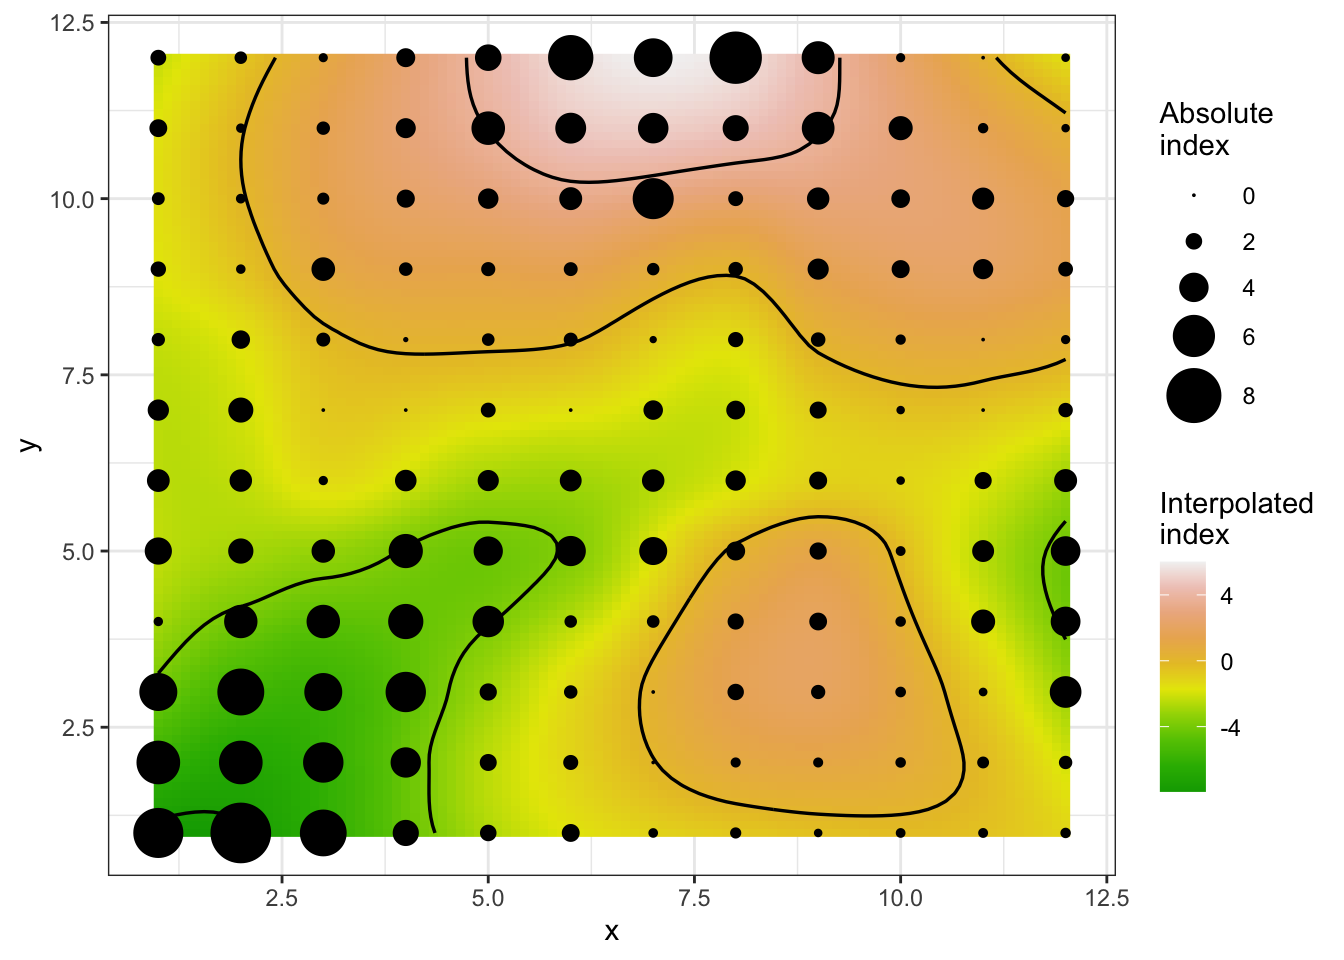
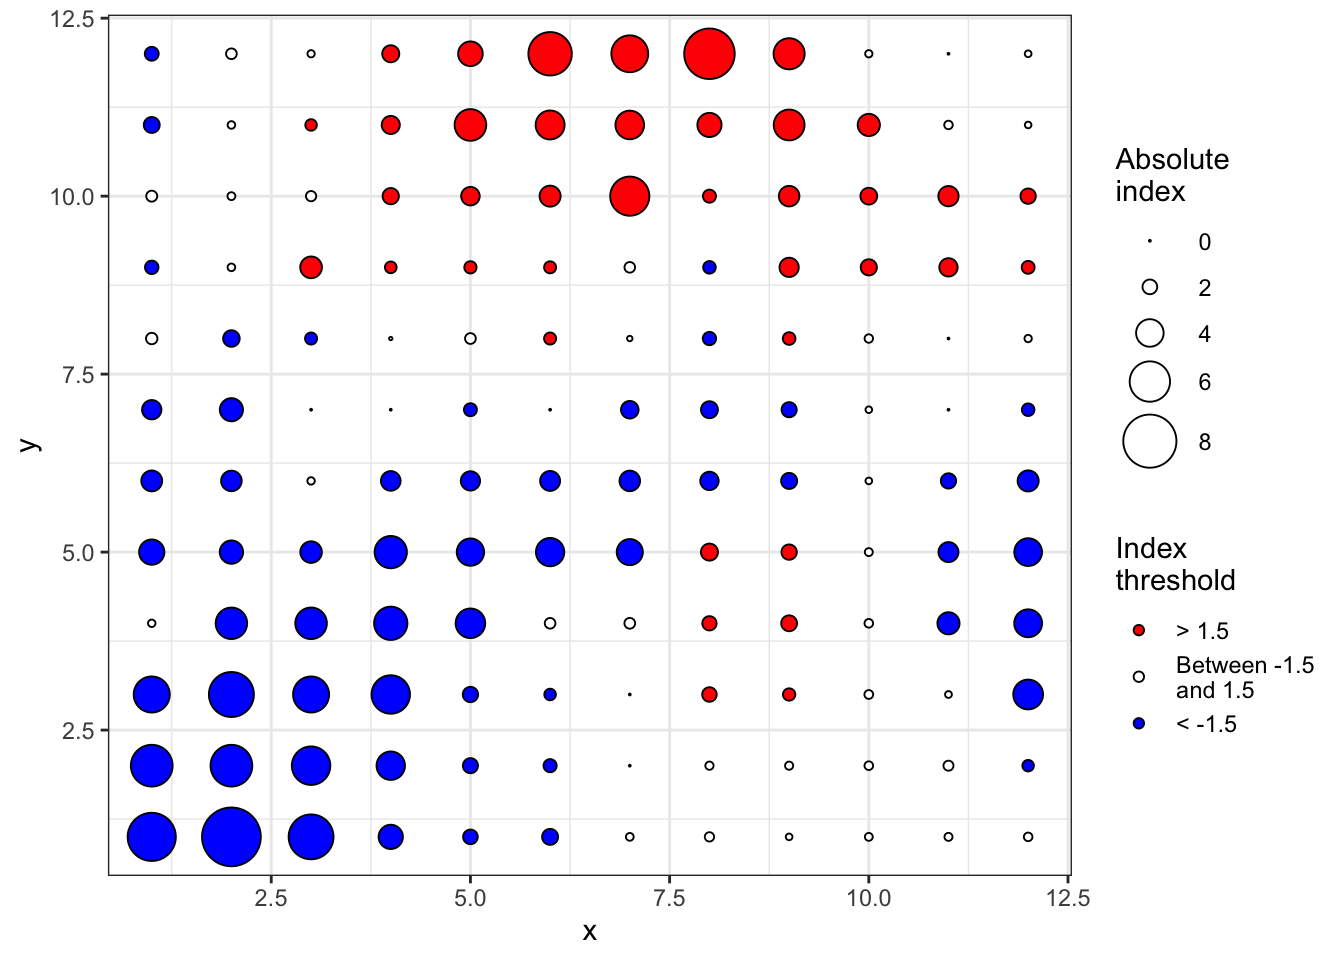
update sadie

diff --git a/_book/spatial-patterns.html b/_book/spatial-patterns.html
@@ -854,20 +854,32 @@ variofit: minimisation function used: optim </code></pre>
 </div>
 </div>
 </section>
-<section id="sadie-distance-indices" class="level4" data-number="3.2.2.3">
-<h4 data-number="3.2.2.3" class="anchored" data-anchor-id="sadie-distance-indices"><span class="header-section-number">3.2.2.3</span> SADIE (distance indices)</h4>
-<p>SADIE (spatial analysis by distance indices) is an alternative to autocorrelation and semi-variance methods described previously, which has found use in plant pathology <span class="citation" data-cites="chapter2017ogy xu2004 li2011">(<a href="references.html#ref-chapter2017ogy" role="doc-biblioref"><strong>chapter2017ogy?</strong></a>; <a href="references.html#ref-xu2004" role="doc-biblioref">Xu and Madden 2004</a>; <a href="references.html#ref-li2011" role="doc-biblioref">Li et al. 2011</a>)</span>. Similar to those methods, the spatial coordinates for the disease intensity (count of diseased individuals) or pathogen propagules values should be provided.</p>
+<section id="sadie" class="level4" data-number="3.2.2.3">
+<h4 data-number="3.2.2.3" class="anchored" data-anchor-id="sadie"><span class="header-section-number">3.2.2.3</span> SADIE</h4>
+<p>SADIE (spatial analysis by distance indices) is an alternative to autocorrelation and semi-variance methods described previously, which has found use in plant pathology <span class="citation" data-cites="chapter2017 xu2004 li2011">(<a href="references.html#ref-chapter2017" role="doc-biblioref">Madden et al. 2017</a>; <a href="references.html#ref-xu2004" role="doc-biblioref">Xu and Madden 2004</a>; <a href="references.html#ref-li2011" role="doc-biblioref">Li et al. 2011</a>)</span>. Similar to those methods, the spatial coordinates for the disease intensity (count of diseased individuals) or pathogen propagules values should be provided.</p>
 <p>SADIE quantifies spatial pattern by calculating the minimum total distance to regaularity. That is, the distance that individuals must be moved from the starting point defined by the observed counts to the end point at which there is the same number of individuals in each sampling unit. Therefore, if the data are highly aggregated, the distance to regularity will be large, but if the data are close to regular to start with, the distance to regularity will be smaller.</p>
 <p>The null hypothesis to test is that the observed pattern is random. SADIE calculates an index of aggregation (<em>Ia</em>). When this is equal to 1, the pattern is random. If this is greater than 1, the pattern is aggregated. Hypothesis testing is based on the randomization procedure. The null hypothesis of randomness, with an alternative hypothesis of aggregation.</p>
 <p>An extension was made to quantify the contribution of each sampling unit count to the observed pattern. Regions with large counts are defined as patches and regions with small counts are defined as gaps. For each sampling unit, a clustering index is calculated and can be mapped.</p>
-<p>In R, we can use the <code>sadie</code> function of the <em>epiphy</em> package. The function computes the different indices and probabilities based on the distance to regularity for the observed spatial pattern and a specified number of random permutations of this pattern. To run the analysis, the dataframe should have only three columns: the first two must be the x and y coordinates and the third one the observations. Let’s continue working with the simulated epidemic dataset named <code>epi2</code>.</p>
+<p>In R, we can use the <code>sadie</code> function of the <em>epiphy</em> package. The function computes the different indices and probabilities based on the distance to regularity for the observed spatial pattern and a specified number of random permutations of this pattern. To run the analysis, the dataframe should have only three columns: the first two must be the x and y coordinates and the third one the observations. Let’s continue working with the simulated epidemic dataset named <code>epi2</code>. We can map the original data as follows:</p>
 <div class="cell">
-<div class="sourceCode" id="cb64"><pre class="sourceCode r cell-code code-with-copy"><code class="sourceCode r"><span id="cb64-1"><a href="#cb64-1" aria-hidden="true" tabindex="-1"></a><span class="fu">library</span>(epiphy)</span>
-<span id="cb64-2"><a href="#cb64-2" aria-hidden="true" tabindex="-1"></a>sadie_epi2 <span class="ot">&lt;-</span> <span class="fu">sadie</span>(epi2)</span></code><button title="Copy to Clipboard" class="code-copy-button"><i class="bi"></i></button></pre></div>
+<div class="sourceCode" id="cb64"><pre class="sourceCode r cell-code code-with-copy"><code class="sourceCode r"><span id="cb64-1"><a href="#cb64-1" aria-hidden="true" tabindex="-1"></a>epi2 <span class="sc">%&gt;%</span> </span>
+<span id="cb64-2"><a href="#cb64-2" aria-hidden="true" tabindex="-1"></a>  <span class="fu">ggplot</span>(<span class="fu">aes</span>(x, y, <span class="at">label =</span> n, <span class="at">fill =</span> n))<span class="sc">+</span></span>
+<span id="cb64-3"><a href="#cb64-3" aria-hidden="true" tabindex="-1"></a>  <span class="fu">geom_tile</span>()<span class="sc">+</span></span>
+<span id="cb64-4"><a href="#cb64-4" aria-hidden="true" tabindex="-1"></a>  <span class="fu">geom_text</span>(<span class="at">size =</span> <span class="dv">5</span>)<span class="sc">+</span></span>
+<span id="cb64-5"><a href="#cb64-5" aria-hidden="true" tabindex="-1"></a>  <span class="fu">theme_void</span>()<span class="sc">+</span></span>
+<span id="cb64-6"><a href="#cb64-6" aria-hidden="true" tabindex="-1"></a>  <span class="fu">coord_fixed</span>()<span class="sc">+</span></span>
+<span id="cb64-7"><a href="#cb64-7" aria-hidden="true" tabindex="-1"></a>  <span class="fu">scale_fill_viridis_c</span>()</span></code><button title="Copy to Clipboard" class="code-copy-button"><i class="bi"></i></button></pre></div>
+<div class="cell-output-display">
+<p><img src="spatial-patterns_files/figure-html/unnamed-chunk-74-1.png" class="img-fluid" width="672"></p>
+</div>
+</div>
+<div class="cell">
+<div class="sourceCode" id="cb65"><pre class="sourceCode r cell-code code-with-copy"><code class="sourceCode r"><span id="cb65-1"><a href="#cb65-1" aria-hidden="true" tabindex="-1"></a><span class="fu">library</span>(epiphy)</span>
+<span id="cb65-2"><a href="#cb65-2" aria-hidden="true" tabindex="-1"></a>sadie_epi2 <span class="ot">&lt;-</span> <span class="fu">sadie</span>(epi2)</span></code><button title="Copy to Clipboard" class="code-copy-button"><i class="bi"></i></button></pre></div>
 <div class="cell-output-stdout">
 <pre><code>Computation of Perry's indices:</code></pre>
 </div>
-<div class="sourceCode" id="cb66"><pre class="sourceCode r cell-code code-with-copy"><code class="sourceCode r"><span id="cb66-1"><a href="#cb66-1" aria-hidden="true" tabindex="-1"></a>sadie_epi2</span></code><button title="Copy to Clipboard" class="code-copy-button"><i class="bi"></i></button></pre></div>
+<div class="sourceCode" id="cb67"><pre class="sourceCode r cell-code code-with-copy"><code class="sourceCode r"><span id="cb67-1"><a href="#cb67-1" aria-hidden="true" tabindex="-1"></a>sadie_epi2</span></code><button title="Copy to Clipboard" class="code-copy-button"><i class="bi"></i></button></pre></div>
 <div class="cell-output-stdout">
 <pre><code>Spatial Analysis by Distance IndicEs (sadie)
 
@@ -879,7 +891,7 @@ Ia: 2.4622 (Pa = &lt; 2.22e-16)</code></pre>
 </div>
 <p>The simple output shows the <em>Ia</em> value and associated P-value. As suggested by the low P-value, the pattern is highly aggregated. The summary function provides a more complete information such as the overall inflow and outflow measures. A dataframe with the clustering index for each sampling unit is also provided.</p>
 <div class="cell">
-<div class="sourceCode" id="cb68"><pre class="sourceCode r cell-code code-with-copy"><code class="sourceCode r"><span id="cb68-1"><a href="#cb68-1" aria-hidden="true" tabindex="-1"></a><span class="fu">summary</span>(sadie_epi2)</span></code><button title="Copy to Clipboard" class="code-copy-button"><i class="bi"></i></button></pre></div>
+<div class="sourceCode" id="cb69"><pre class="sourceCode r cell-code code-with-copy"><code class="sourceCode r"><span id="cb69-1"><a href="#cb69-1" aria-hidden="true" tabindex="-1"></a><span class="fu">summary</span>(sadie_epi2)</span></code><button title="Copy to Clipboard" class="code-copy-button"><i class="bi"></i></button></pre></div>
 <div class="cell-output-stdout">
 <pre><code>
 Call:
@@ -906,18 +918,18 @@ Ia: 2.4622 (Pa = &lt; 2.22e-16)
 Number of permutations: 100</code></pre>
 </div>
 </div>
-<p>The plot function allows to map the clustering indices and so to identify regions of patches (outflow) and gaps (inflow).</p>
+<p>The plot function allows to map the clustering indices and so to identify regions of patches (red, outflow) and gaps (blue, inflow).</p>
 <div class="cell">
-<div class="sourceCode" id="cb70"><pre class="sourceCode r cell-code code-with-copy"><code class="sourceCode r"><span id="cb70-1"><a href="#cb70-1" aria-hidden="true" tabindex="-1"></a><span class="fu">plot</span>(sadie_epi2)</span></code><button title="Copy to Clipboard" class="code-copy-button"><i class="bi"></i></button></pre></div>
-<div class="cell-output-display">
-<p><img src="spatial-patterns_files/figure-html/unnamed-chunk-78-1.png" class="img-fluid" width="672"></p>
-</div>
-</div>
-<p>A isocline plot is also possible to obtain</p>
-<div class="cell">
-<div class="sourceCode" id="cb71"><pre class="sourceCode r cell-code code-with-copy"><code class="sourceCode r"><span id="cb71-1"><a href="#cb71-1" aria-hidden="true" tabindex="-1"></a><span class="fu">plot</span>(sadie_epi2, <span class="at">isoclines =</span> <span class="cn">TRUE</span>)</span></code><button title="Copy to Clipboard" class="code-copy-button"><i class="bi"></i></button></pre></div>
+<div class="sourceCode" id="cb71"><pre class="sourceCode r cell-code code-with-copy"><code class="sourceCode r"><span id="cb71-1"><a href="#cb71-1" aria-hidden="true" tabindex="-1"></a><span class="fu">plot</span>(sadie_epi2)</span></code><button title="Copy to Clipboard" class="code-copy-button"><i class="bi"></i></button></pre></div>
 <div class="cell-output-display">
 <p><img src="spatial-patterns_files/figure-html/unnamed-chunk-80-1.png" class="img-fluid" width="672"></p>
+</div>
+</div>
+<p>A isocline plot is also possible to obtain by setting the <code>isocline</code> argument as <code>TRUE</code>.</p>
+<div class="cell">
+<div class="sourceCode" id="cb72"><pre class="sourceCode r cell-code code-with-copy"><code class="sourceCode r"><span id="cb72-1"><a href="#cb72-1" aria-hidden="true" tabindex="-1"></a><span class="fu">plot</span>(sadie_epi2, <span class="at">isoclines =</span> <span class="cn">TRUE</span>)</span></code><button title="Copy to Clipboard" class="code-copy-button"><i class="bi"></i></button></pre></div>
+<div class="cell-output-display">
+<p><img src="spatial-patterns_files/figure-html/unnamed-chunk-82-1.png" class="img-fluid" width="672"></p>
 </div>
 </div>
 
